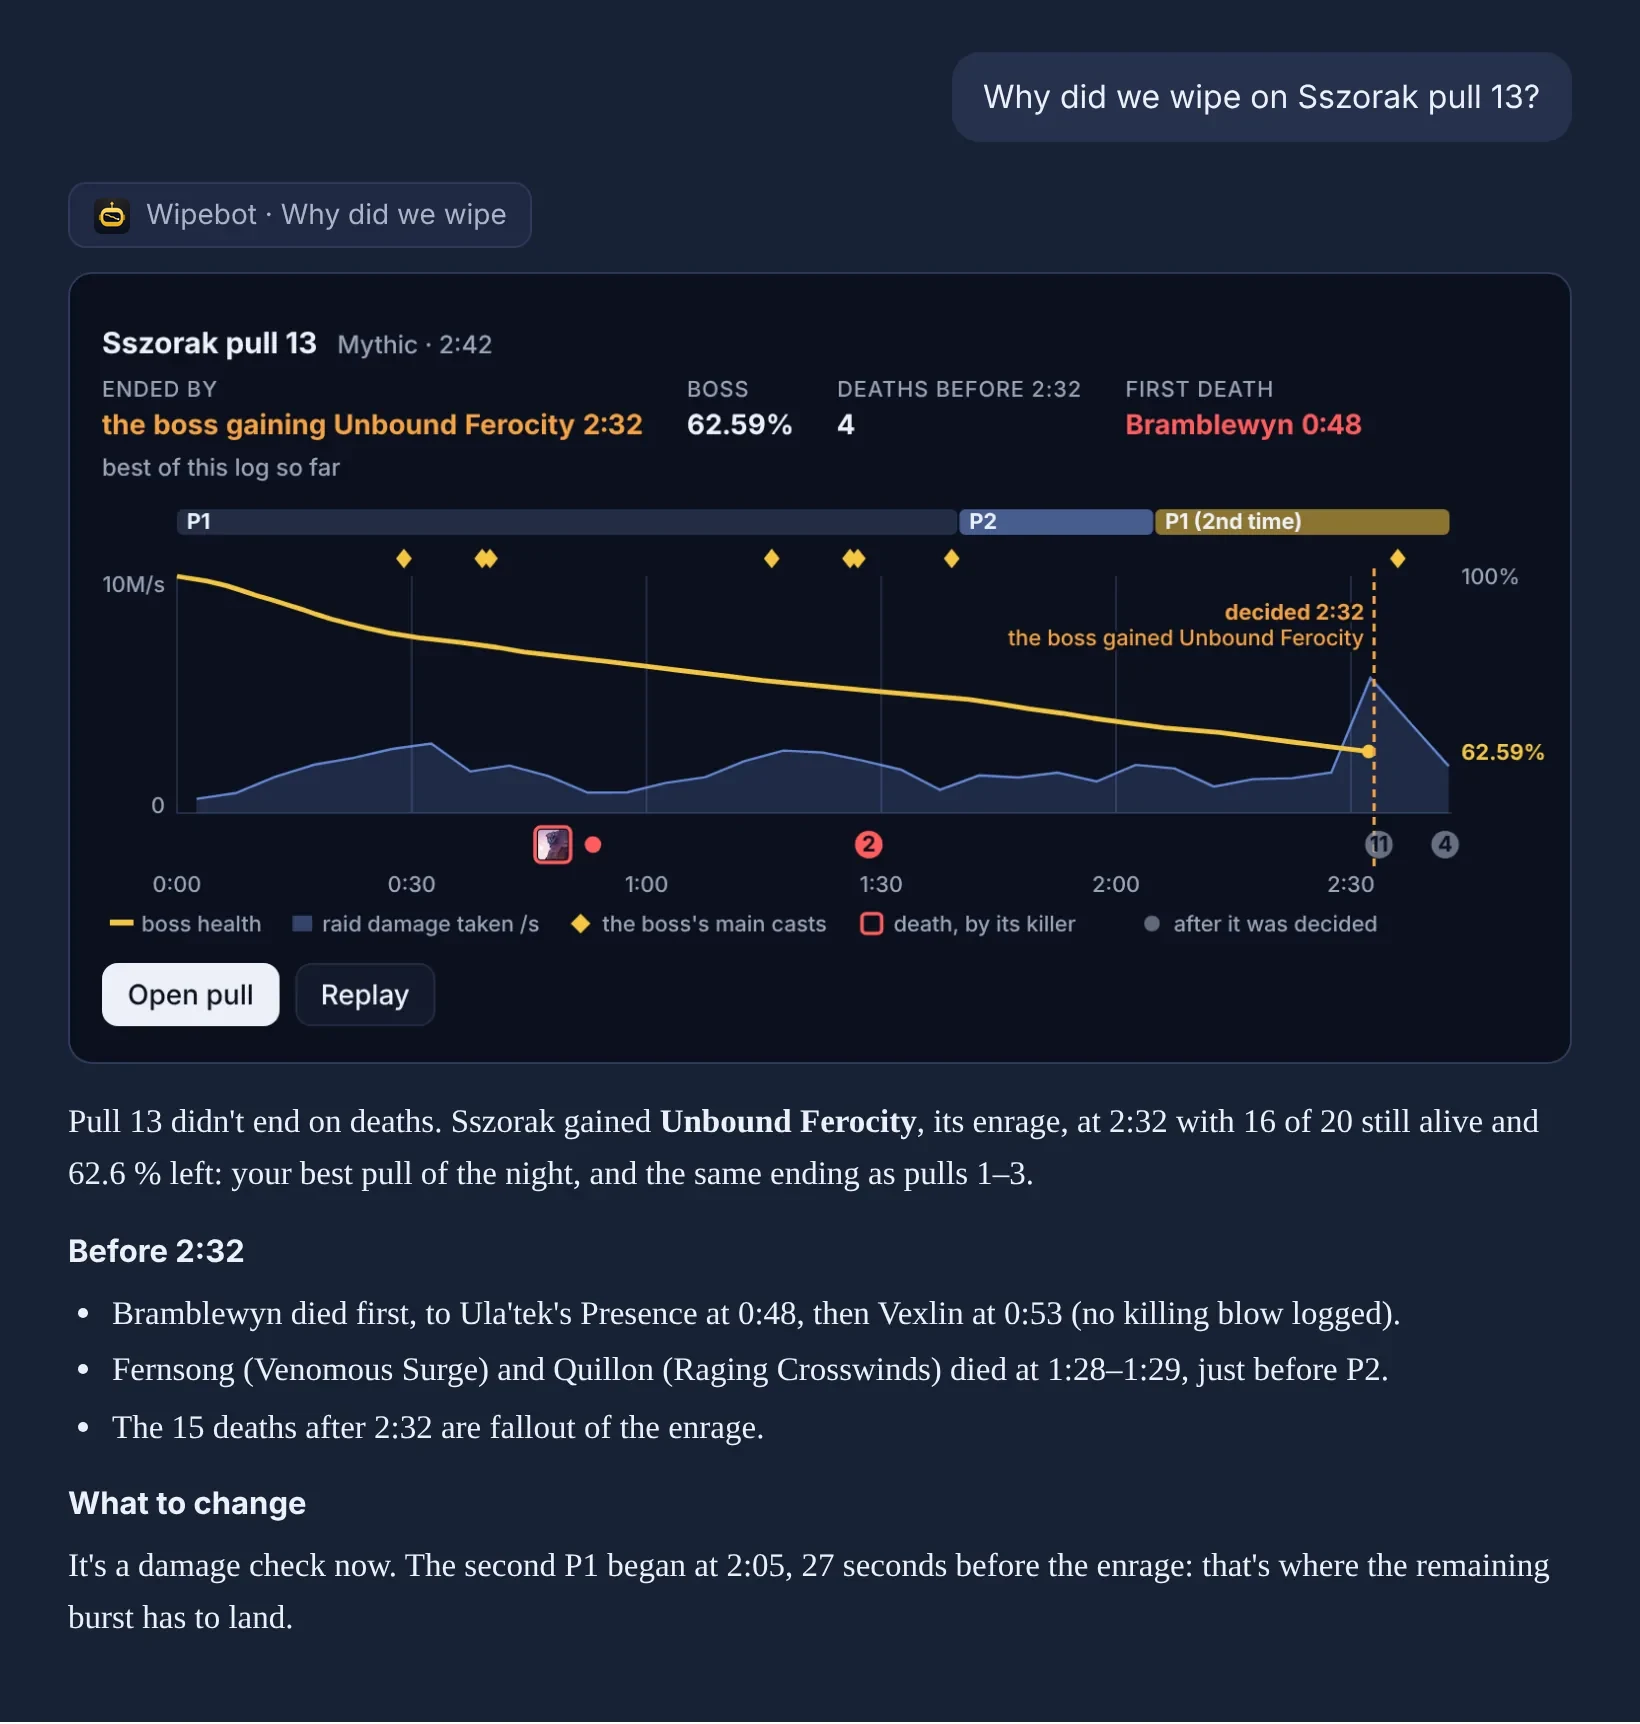
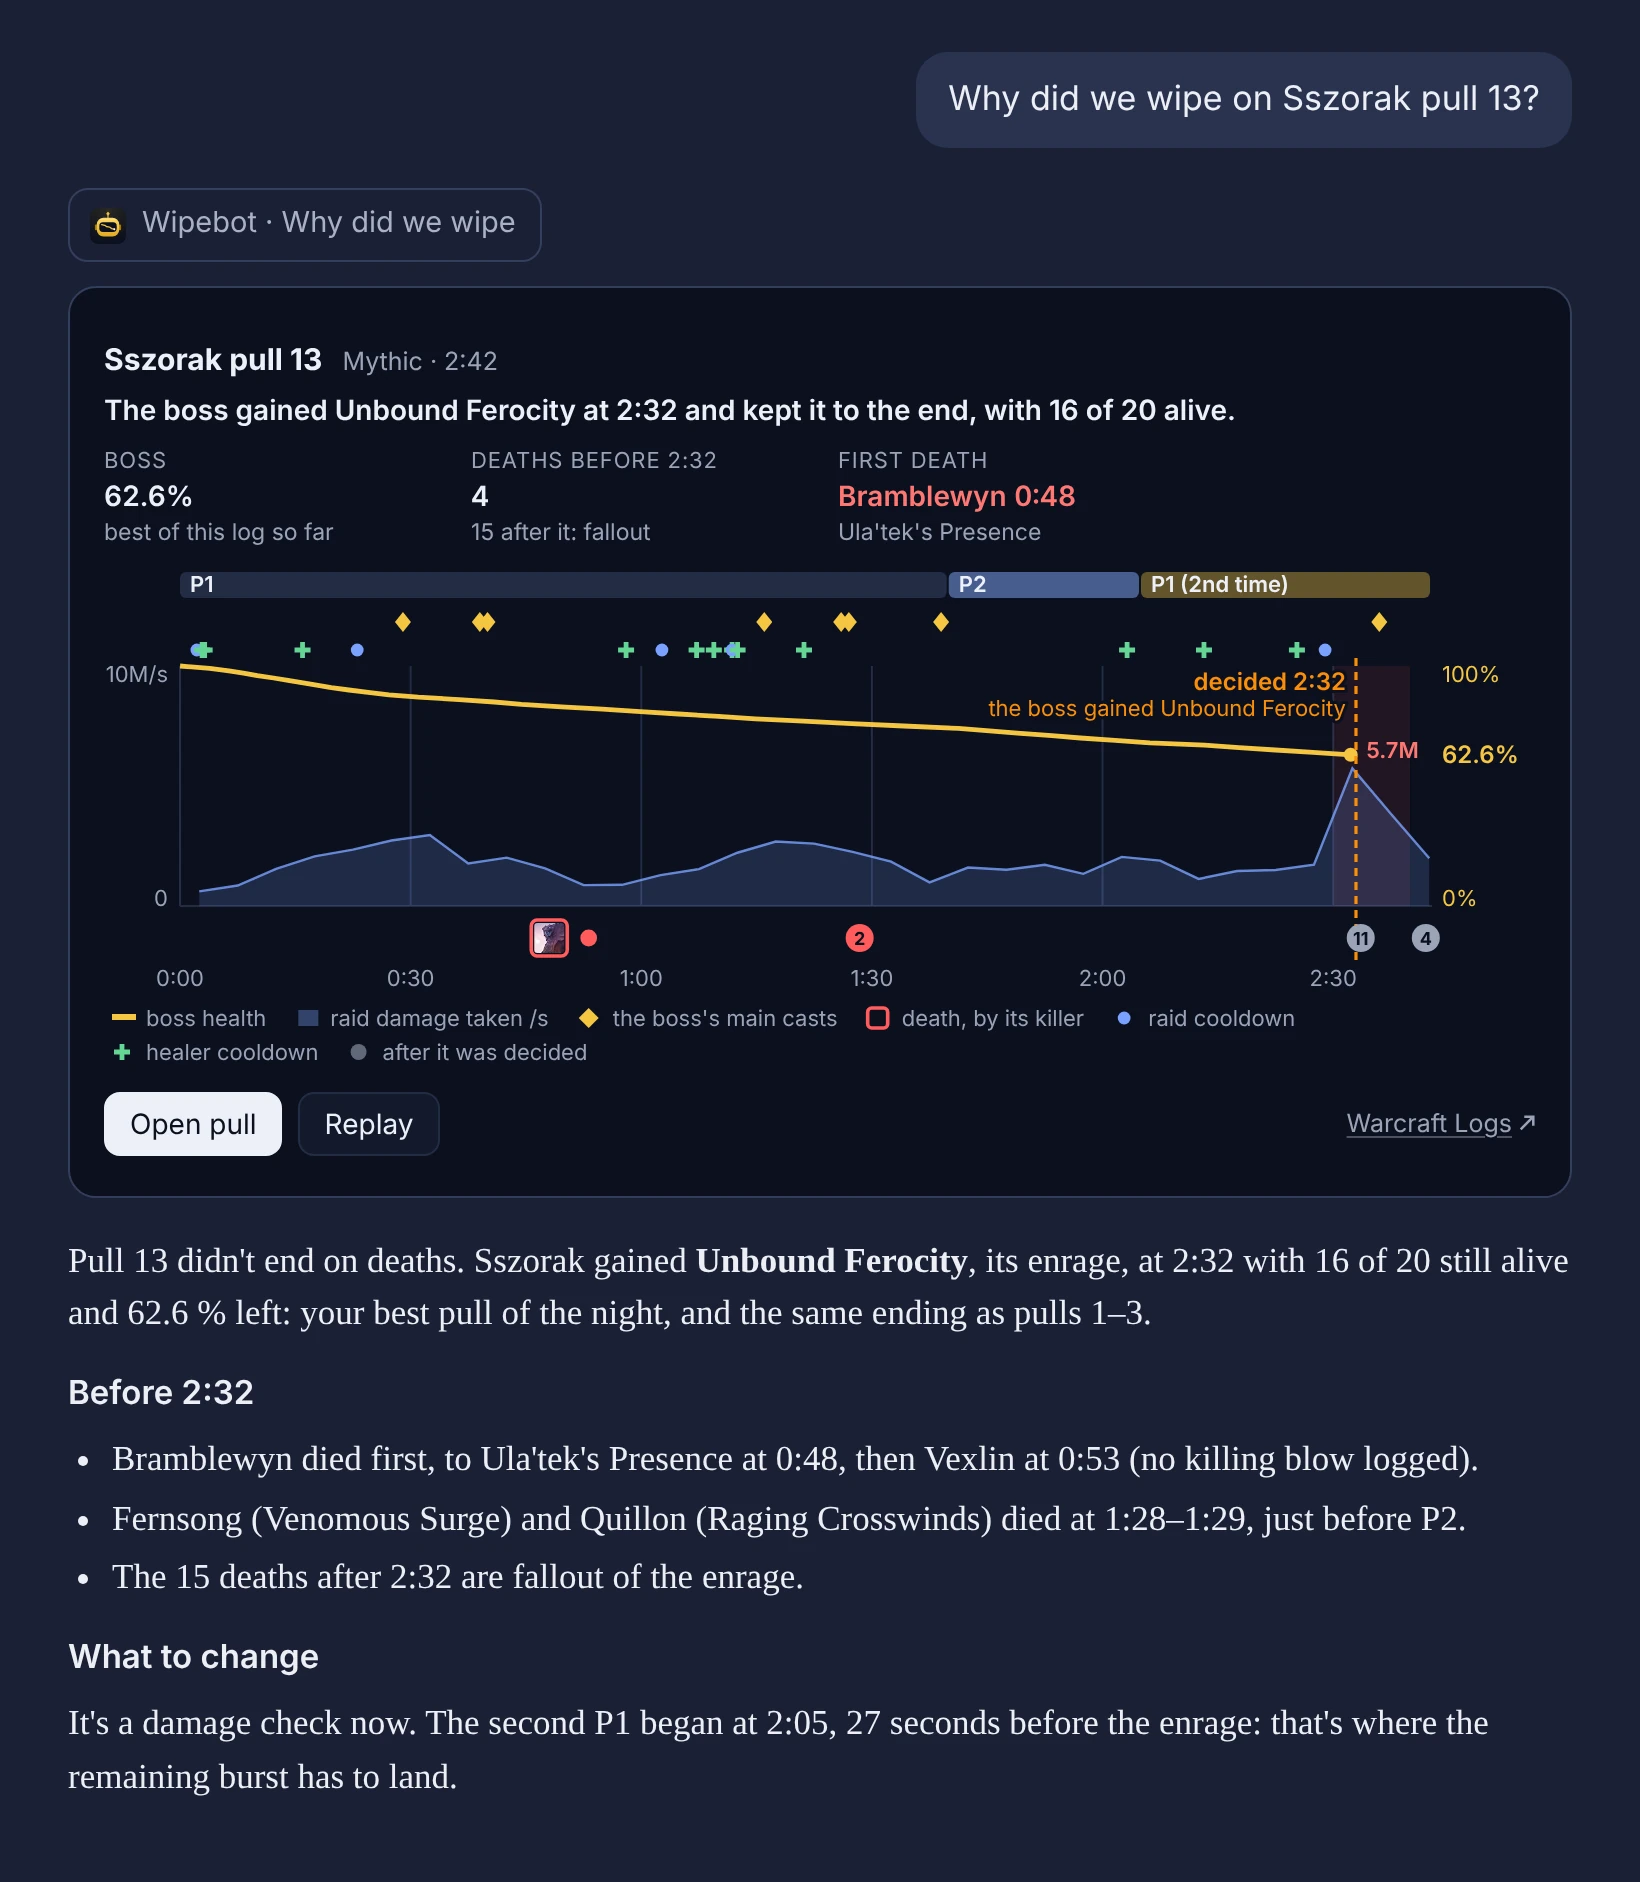
docs: the features page shows a ranking as the card Claude and ChatGPT draw
The page still said Claude and ChatGPT give a ranking as text, under a mock of the old meter with "80 set up"
on it, a number the tool no longer states that way. The text and the caption say what is drawn now, and the two
mocks of a chat in Claude (a ranking, a pull) are made again from today's cards, in both themes, with the same
made-up names as before.

diff --git a/docs/features.md b/docs/features.md
@@ -9,13 +9,13 @@ pull.
 
 ## What it looks like
 
-In Claude and ChatGPT, an answer about a pull, a night, a player or a death comes with that drawn under it, made by the
-tools from the log, with more a click away: the pull's replay, a player's casts against the top. In Discord the same
-comes as pictures, with buttons under them for the next thing to look at, and a ranking of players as a damage meter.
+In Claude and ChatGPT, an answer about a pull, a night, a player, a death or a ranking of players comes with that drawn
+under it, made by the tools from the log, with more a click away: the pull's replay, a player's casts against the top,
+a ranking pull by pull. In Discord the same comes as pictures, with buttons under them for the next thing to look at.
 
 <picture>
   <source media="(prefers-color-scheme: dark)" srcset="images/claude-why-did-we-wipe-dark.webp">
-  <img src="images/claude-why-did-we-wipe.webp" alt="Claude answering &quot;Why did we wipe on Sszorak pull 13?&quot;: the pull drawn as boss health against the raid's damage taken, with phases and deaths, and buttons to open the pull and its replay, then the answer: the enrage at 2:32 with 16 of 20 alive">
+  <img src="images/claude-why-did-we-wipe.webp" alt="Claude answering &quot;Why did we wipe on Sszorak pull 13?&quot;: a card that leads with how the pull ended, then the pull drawn as boss health against the raid's damage taken, with phases, cooldowns and deaths, and buttons to open the pull and its replay, then the answer: the enrage at 2:32 with 16 of 20 alive">
 </picture>
 
 *In Claude: pull 13 ended on the boss's enrage at 2:32 with 16 of 20 alive, and the pull is drawn with the answer.*
@@ -37,11 +37,12 @@ own card on that pull, which only they see.*
 
 <picture>
   <source media="(prefers-color-scheme: dark)" srcset="images/claude-damage-meter-dark.webp">
-  <img src="images/claude-damage-meter.webp" alt="A mock of a chat answering &quot;Who keeps getting hit by Virulence?&quot;: a damage meter of every player's damage taken from it over 33 pulls, with the median and the deaths of any cause within 6 s of a hit, then the answer">
+  <img src="images/claude-damage-meter.webp" alt="A mock of a chat answering &quot;Who keeps getting hit by Tempest?&quot;: a card that leads with who is hit most per minute and how that stands against the median, then the killing blows, the deaths of any cause within 6 s of a hit and the median, the top eight players' bars in their class colours, and the buttons Open ranking and By pull, then the answer">
 </picture>
 
-*In Discord, a ranking of players comes as a damage meter, here Virulence over the whole night. Claude and ChatGPT
-draw a pull, a night, a player and a death, and give a ranking as text.*
+*A ranking of players is a card in Claude and ChatGPT, here Tempest over the whole night: who is first and how that
+stands against the median, the top eight players, and the rest and the pull by pull a click away. In Discord it comes
+as a damage meter's picture with the same sentence.*
 
 The pictures are real tool output from the tests' report, with made-up names; the chat around them is a mock.
 
